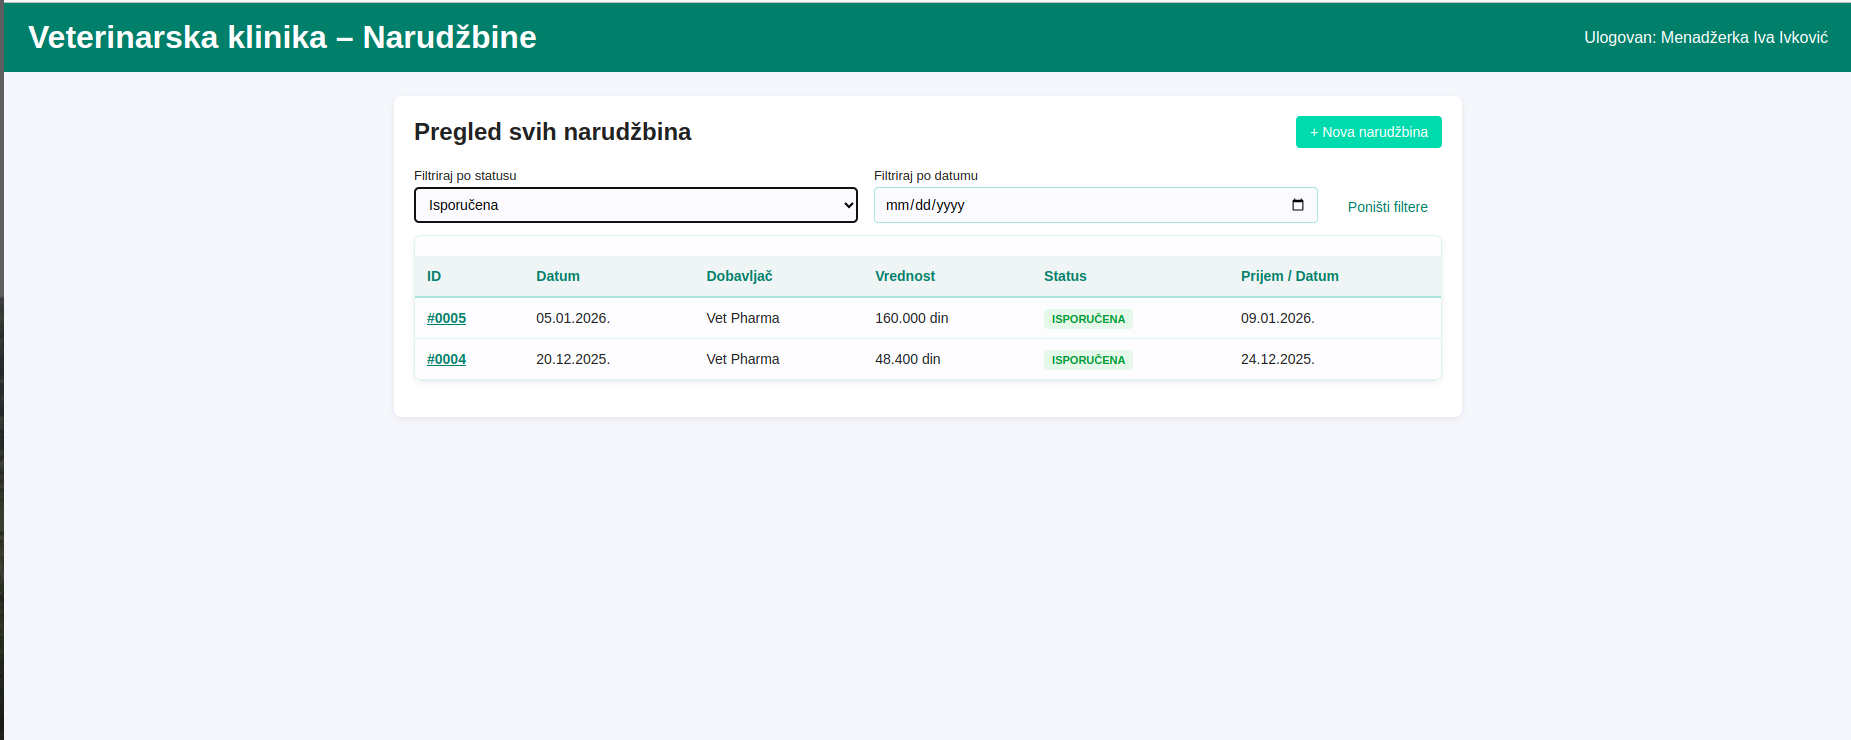
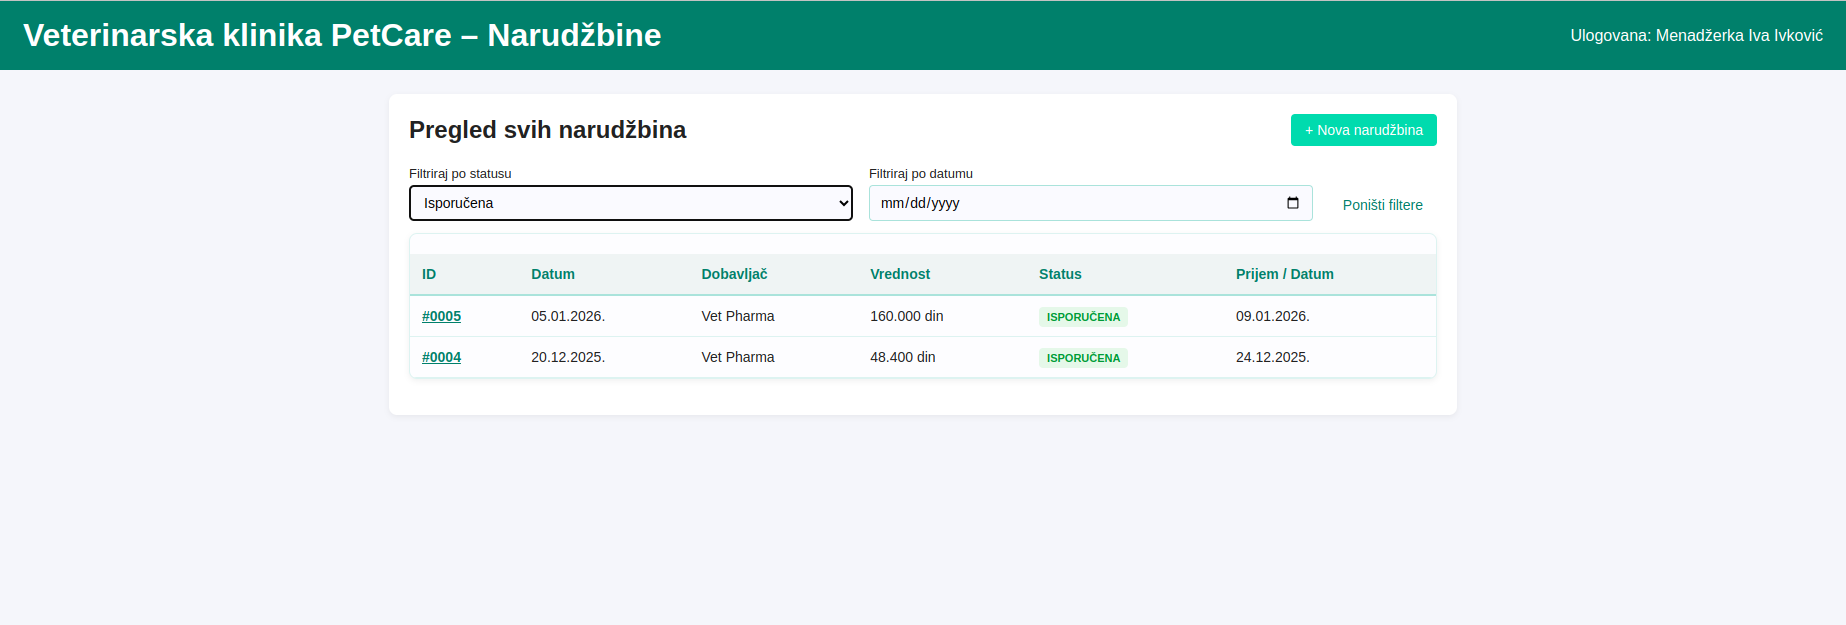
Add files via upload

diff --git a/UI/nova_narudzbina.html b/UI/nova_narudzbina.html
@@ -57,8 +57,8 @@
 <body>
 
 <header>
-  <h1>Veterinarska klinika - Nova narudžbina</h1>
-  <div class="user">Ulogovan: Menadžerka Iva Ivković</div>
+  <h1>Veterinarska klinika PetCare - Nova narudžbina</h1>
+  <div class="user">Ulogovana: Menadžerka Iva Ivković</div>
 </header>
 
 <div class="container">

diff --git a/UI/narudzbina.html b/UI/narudzbina.html
@@ -48,8 +48,8 @@
 <body>
 
 <header>
-  <h1>Veterinarska klinika – Narudžbine</h1>
-  <div class="user">Ulogovan: Menadžerka Iva Ivković </div>
+  <h1>Veterinarska klinika PetCare – Narudžbine</h1>
+  <div class="user">Ulogovana: Menadžerka Iva Ivković </div>
 </header>
 
 <div class="container">

diff --git a/UI/detalji_narudzbine.html b/UI/detalji_narudzbine.html
@@ -47,8 +47,8 @@
 <body>
 
 <header>
-  <h1>Veterinarska klinika - Narudžbina</h1>
-  <div class="user">Ulogovan: Menadžerka Iva Ivković</div>
+  <h1>Veterinarska klinika PetCare - Narudžbina</h1>
+  <div class="user">Ulogovana: Menadžerka Iva Ivković</div>
 </header>
 
 <div class="container">

diff --git a/UI/detalji_narudzbine_2.html b/UI/detalji_narudzbine_2.html
@@ -47,8 +47,8 @@
 <body>
 
 <header>
-  <h1>Veterinarska klinika - Narudžbina</h1>
-  <div class="user">Ulogovan: Menadžerka Iva Ivković</div>
+  <h1>Veterinarska klinika PetCare - Narudžbina</h1>
+  <div class="user">Ulogovana: Menadžerka Iva Ivković</div>
 </header>
 
 <div class="container">

diff --git a/UI/prijem.html b/UI/prijem.html
@@ -49,8 +49,8 @@
 <body>
 
 <header>
-  <h1>Veterinarska klinika - prijem robe</h1>
-  <div class="user">Ulogovan: Menadžerka Iva Ivković</div>
+  <h1>Veterinarska klinika PetCare - Prijem robe</h1>
+  <div class="user">Ulogovana: Menadžerka Iva Ivković</div>
 </header>
 
 <div class="container">

diff --git a/UI/katalog.html b/UI/katalog.html
@@ -28,7 +28,7 @@
 <body>
 
 <header>
-  <h1>Veterinarska ordinacija – Upravljanje zalihama</h1>
+  <h1>Veterinarska klinika PetCare – Upravljanje zalihama</h1>
   <div class="user">Ulogovan: dr vet. med. Marko Marković</div>
 </header>
 
